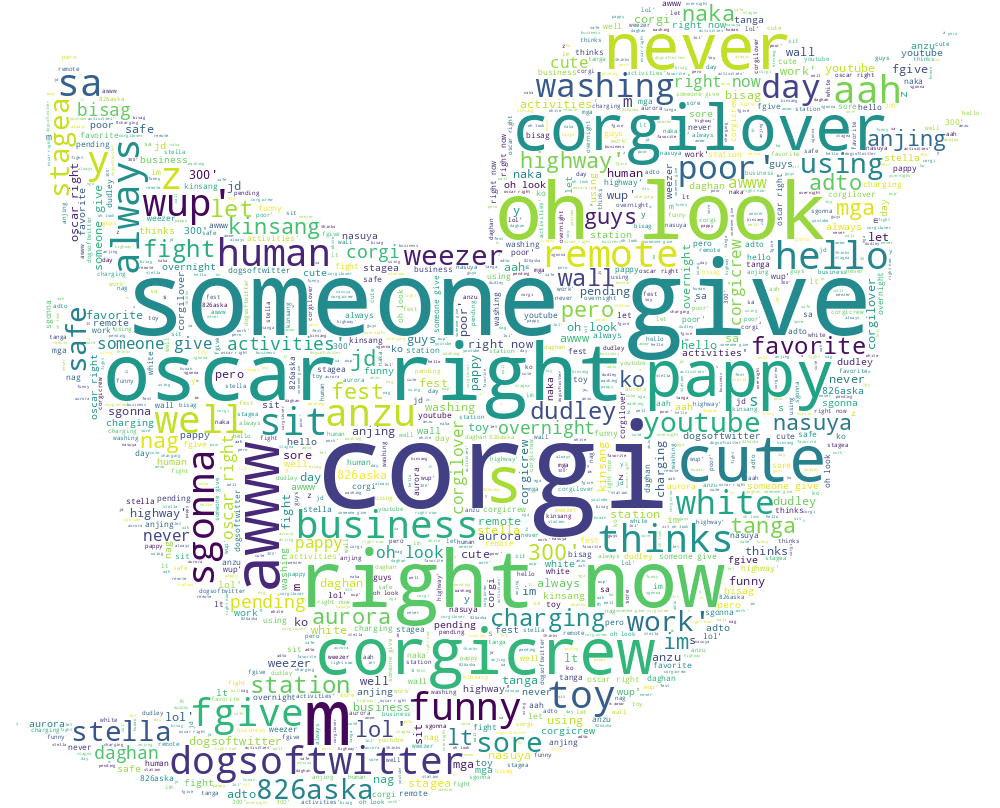
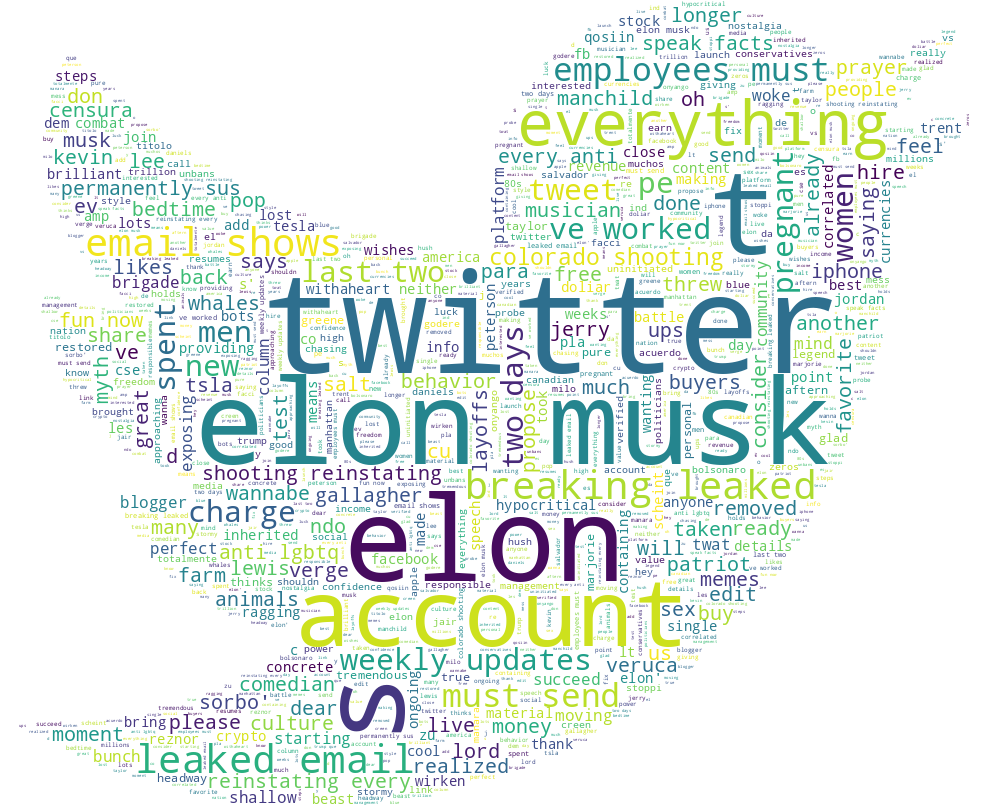
adding mongoDB

diff --git a/test.py b/test.py
@@ -25,17 +25,18 @@ from pymongo import MongoClient
 # nltk.download('vader_lexicon')
 
 #establing connection
-try:
-    connect = MongoClient()
-    print("Connected successfully!!!")
-except:
-    print("Could not connect to MongoDB")
+
+# try:
+#     connect = MongoClient()
+#     print("Connected successfully!!!")
+# except:
+#     print("Could not connect to MongoDB")
 
 # connecting or switching to the database
-db = connect.wordCloud
+#db = connect.wordCloud
 
 # creating or switching to demoCollection
-collection = db.wordCloudCollection
+#collection = db.wordCloudCollection
 
 # import access Twitter API from .env
 load_dotenv()
@@ -72,9 +73,10 @@ def inputkeyword(keyword, noOfTweet, select) :
 
    #for loop to query data 
    for tweet in tweets:
-      #print(tweet.text)
+      print(tweet.text)
       tweet_list.append(tweet.text)
       analysis = TextBlob(tweet.text)
+      
       score = SentimentIntensityAnalyzer().polarity_scores(tweet.text)
       neg = score['neg']
       neu = score['neu']
@@ -103,15 +105,15 @@ def inputkeyword(keyword, noOfTweet, select) :
    print(tweet._json)
 
    #query previous data
-   exist_data = collection.find()
+   # exist_data = collection.find()
 
-   #delete previous data in the storage 
-   if exist_data != None :
-      print("delete prvious data successfull")
-      collection.delete_many({})
+   # #delete previous data in the storage 
+   # if exist_data != None :
+   #    print("delete prvious data successfull")
+   #    collection.delete_many({})
    
    # Inserting data to local storage one by one
-   collection.insert_one(tweet._json)
+   #collection.insert_one(tweet._json)
 
    #Number of Tweets (Total, Positive, Negative, Neutral)
    tweet_list = pd.DataFrame(tweet_list)
@@ -176,8 +178,8 @@ def inputkeyword(keyword, noOfTweet, select) :
       wc = WordCloud(background_color= "white",mask = mask,max_words=3000,stopwords=stopwords,repeat=True)
       wc.generate(str(text))
       wc.to_file("templates/result/wc-all.png")
+      wc.to_file("templates/result/wc.png")
       print("Word Cloud Saved Successfully")
-      #path="templates/result/wc-all.png"
 
    #Function to Create Wordcloud for all Positive tweet
    def create_wordcloud_pos(text):
@@ -186,8 +188,8 @@ def inputkeyword(keyword, noOfTweet, select) :
       wc = WordCloud(background_color= "white",mask = mask,max_words=3000,stopwords=stopwords,repeat=True)
       wc.generate(str(text))
       wc.to_file("templates/result/wc-pos.png")
+      wc.to_file("templates/result/wc.png")
       print("Word Cloud Saved Successfully")
-      #path="templates/result/wc-pos.png"
 
    #Function to Create Wordcloud for all Negative tweet
    def create_wordcloud_neg(text):
@@ -196,8 +198,8 @@ def inputkeyword(keyword, noOfTweet, select) :
       wc = WordCloud(background_color= "white",mask = mask,max_words=3000,stopwords=stopwords,repeat=True)
       wc.generate(str(text))
       wc.to_file("templates/result/wc-neg.png")
+      wc.to_file("templates/result/wc.png")
       print("Word Cloud Saved Successfully")
-      #path="templates/result/wc-neg.png"
 
     #Function to Create Wordcloud for all Neutual tweet
    def create_wordcloud_neu(text):
@@ -206,8 +208,8 @@ def inputkeyword(keyword, noOfTweet, select) :
       wc = WordCloud(background_color= "white",mask = mask,max_words=3000,stopwords=stopwords,repeat=True)
       wc.generate(str(text))
       wc.to_file("templates/result/wc-neu.png")
+      wc.to_file("templates/result/wc.png")
       print("Word Cloud Saved Successfully")
-      #path="templates/result/wc-neu.png"
 
    #Creating wordcloud
 
@@ -233,8 +235,4 @@ def inputkeyword(keyword, noOfTweet, select) :
    round(pd.DataFrame(tw_list.groupby("sentiment").text_len.mean()),2)
    return 
 
-#input from user 
-keyword = input("Please enter keyword or hashtag to search: ")
-noOfTweet = int(input ("Please enter how many tweets to analyze: "))
-select = int(input("Please enter 1 Positive | 2 Negative | 3 Neutral | 4 All : "))
-inputkeyword(keyword, noOfTweet, select) 
+

diff --git a/sentiment.py b/sentiment.py
@@ -26,17 +26,17 @@ from pymongo import MongoClient
 
 #establing connection
 
-# try:
-#     connect = MongoClient()
-#     print("Connected successfully!!!")
-# except:
-#     print("Could not connect to MongoDB")
+try:
+   connect = MongoClient()
+   print("Connected successfully!!!")
+except:
+   print("Could not connect to MongoDB")
 
-# connecting or switching to the database
-#db = connect.wordCloud
+#connecting or switching to the database
+db = connect.wordCloud
 
-# creating or switching to demoCollection
-#collection = db.wordCloudCollection
+#creating or switching to demoCollection
+collection = db.wordCloudCollection
 
 # import access Twitter API from .env
 load_dotenv()
@@ -92,15 +92,6 @@ def inputkeyword(keyword, noOfTweet, select) :
       elif pos == neg:
          neutral_list.append(tweet.text)
          neutral += 1
-
-   #out of for loop : convert decimal into percentage
-   positive = percentage(positive, noOfTweet)
-   negative = percentage(negative, noOfTweet)
-   neutral = percentage(neutral, noOfTweet)
-   polarity = percentage(polarity, noOfTweet)
-   positive = format(positive, '.1f')
-   negative = format(negative, '.1f')
-   neutral = format(neutral, '.1f')
    print(tweet._json)
 
    #query previous data
@@ -135,6 +126,19 @@ def inputkeyword(keyword, noOfTweet, select) :
    tw_list["text"] = tw_list.text.map(remove_rt).map(rt)
    tw_list["text"] = tw_list.text.str.lower()
    tw_list.head(10)
+
+   #get data to mongoDb
+   collection.insert_one(tw_list)
+
+   #create function to create wordcloud
+   def create_wordcloud(text):
+      mask = np.array(Image.open("mask/bird.png"))
+      stopwords = set(STOPWORDS)
+      wc = WordCloud(background_color= "white",mask = mask,max_words=3000,stopwords=stopwords,repeat=True)
+      wc.generate(str(text))
+      wc.to_file("templates/result/wc-neg.png")
+      wc.to_file("templates/result/wc.png")
+      print("Word Cloud Saved Successfully")
 
    #Calculating Negative, Positive, Neutral and Compound values
    tw_list[['polarity', 'subjectivity']] = tw_list['text'].apply(lambda Text: pd.Series(TextBlob(Text).sentiment))
@@ -210,8 +214,6 @@ def inputkeyword(keyword, noOfTweet, select) :
       wc.to_file("templates/result/wc.png")
       print("Word Cloud Saved Successfully")
 
-   #Creating wordcloud
-
    #Creating wordcloud for positive sentiment
    if select == 1:
       create_wordcloud_pos(tw_list_positive["text"].values)
@@ -233,10 +235,4 @@ def inputkeyword(keyword, noOfTweet, select) :
    tw_list['text_word_count'] = tw_list['text'].apply(lambda x: len(str(x).split()))
    round(pd.DataFrame(tw_list.groupby("sentiment").text_len.mean()),2)
    return 
-
-#input from user 
-# keyword = input("Please enter keyword or hashtag to search: ")
-# noOfTweet = int(input ("Please enter how many tweets to analyze: "))
-# select = int(input("Please enter 1 Positive | 2 Negative | 3 Neutral | 4 All : "))
-# inputkeyword(keyword, noOfTweet, select) 
 
